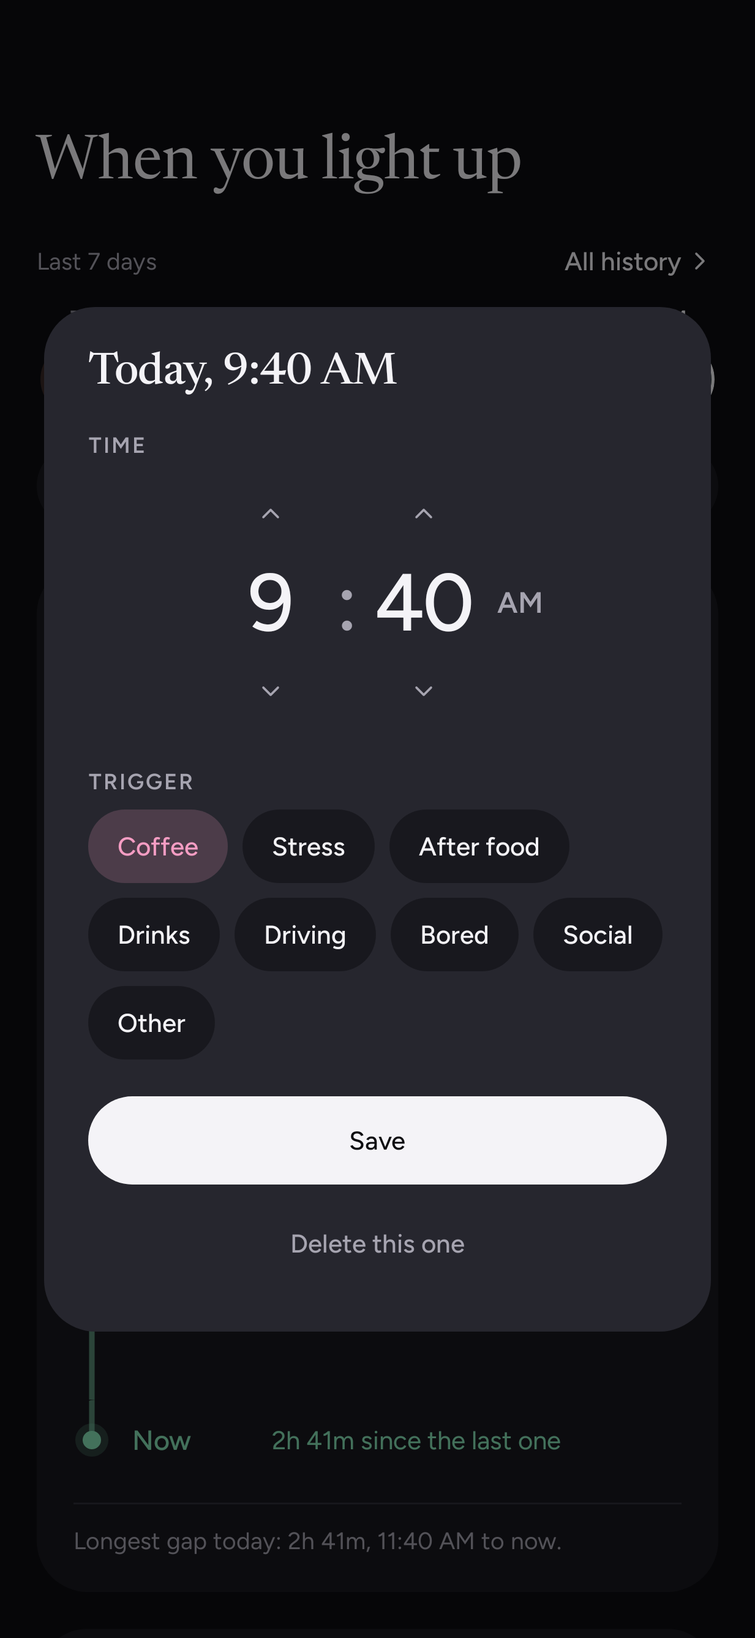
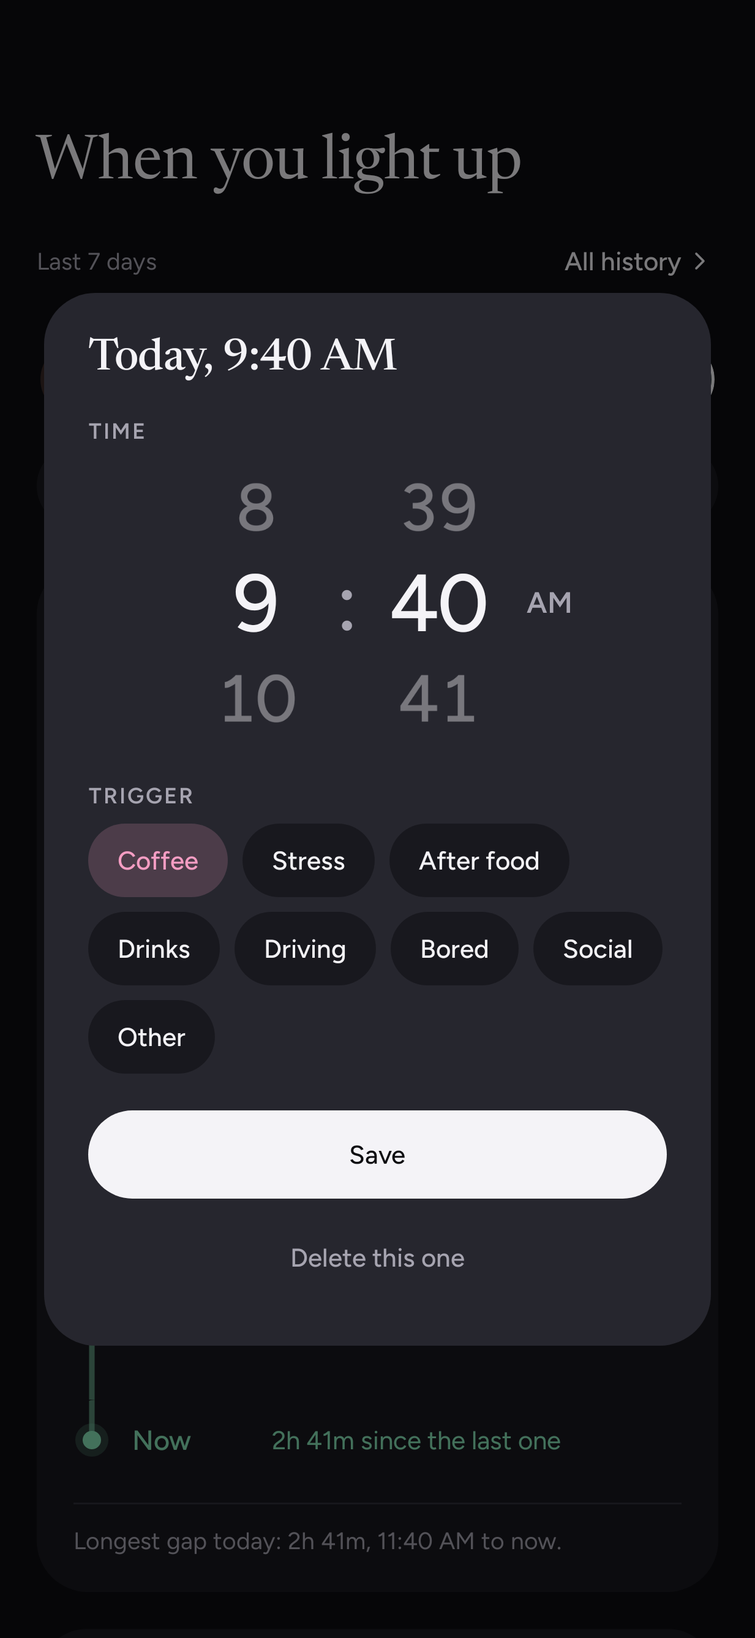
Log editor: time wheels instead of arrow buttons
The hour and minute are now spinner wheels, like iOS and Android pickers:
the value in the middle with its neighbours fading above (earlier) and below
(later). Drag up or tap the value below for later, drag down or tap above for
earlier; holding repeats. Times that can't be chosen are dimmed and the wheel
won't turn to them.

- TimeWheel replaces TimeStepper; the up/down icons are gone.
- RepeatTarget: CounterRow's hold-to-repeat as a plain tap target, shared by
  RepeatButton and the wheel.
- TimeWheelTest: tap below/above, drag up/down, never to a time past now.
- SPEC, design system and screenshots updated.

Claude-Session: https://claude.ai/code/session_018i9YmsjcAhE8FFAW5SDTiF

diff --git a/app/src/main/java/app/exhale/ui/components/DayTimeline.kt b/app/src/main/java/app/exhale/ui/components/DayTimeline.kt
@@ -1,6 +1,20 @@
 package app.exhale.ui.components
 
 import androidx.compose.foundation.Canvas
+import androidx.compose.animation.core.Animatable
+import androidx.compose.animation.core.tween
+import androidx.compose.foundation.gestures.detectVerticalDragGestures
+import androidx.compose.foundation.layout.offset
+import androidx.compose.runtime.rememberCoroutineScope
+import androidx.compose.runtime.rememberUpdatedState
+import androidx.compose.ui.draw.clipToBounds
+import androidx.compose.ui.graphics.graphicsLayer
+import androidx.compose.ui.input.pointer.pointerInput
+import androidx.compose.ui.platform.LocalDensity
+import androidx.compose.ui.unit.IntOffset
+import kotlinx.coroutines.launch
+import kotlin.math.abs
+import kotlin.math.roundToInt
 import androidx.compose.foundation.background
 import androidx.compose.foundation.clickable
 import androidx.compose.foundation.layout.Arrangement
@@ -345,40 +359,107 @@ fun DayLine(
     }
 }
 
+/** Height of one value on a [TimeWheel]; it shows three. */
+private val WHEEL_SLOT = ExSize.row
+
 /**
- * A time of day as hour and minutes, each with an up and a down button that repeat while held:
- * hours go round the clock, minutes round the hour. [canSet] says whether a time can be chosen
- * (a log can't move into the future); a step that would land on one it can't is off.
+ * A time of day as two wheels, hour and minutes, like the iOS and Android spinners: the value in
+ * the middle, its neighbours fading above (earlier) and below (later). Drag a wheel up for later,
+ * down for earlier; tap the value below or above to step to it, and hold to keep going. Hours go
+ * round the clock, minutes round the hour. [canSet] says whether a time can be chosen (a log can't
+ * move into the future): one that can't is dimmed, and the wheel won't turn to it.
  */
 @Composable
-fun TimeStepper(minuteOfDay: Int, onChange: (Int) -> Unit, canSet: (Int) -> Boolean, h24: Boolean, modifier: Modifier = Modifier) {
+fun TimeWheel(minuteOfDay: Int, onChange: (Int) -> Unit, canSet: (Int) -> Boolean, h24: Boolean, modifier: Modifier = Modifier) {
     val c = Ex.colors
     val hour = minuteOfDay / 60
-    val minute = minuteOfDay % 60
-    val hourText = if (h24) "%02d".format(hour) else "${if (hour % 12 == 0) 12 else hour % 12}"
+    val hourText = { m: Int -> (m / 60).let { h -> if (h24) "%02d".format(h) else "${if (h % 12 == 0) 12 else h % 12}" } }
     val half = LocalTime.of(hour, 0).format(DateTimeFormatter.ofPattern("a", Locale.getDefault()))
     Row(
-        modifier.fillMaxWidth().semantics { stateDescription = "$hourText:%02d".format(minute) + if (h24) "" else " $half" },
+        modifier.fillMaxWidth().semantics { stateDescription = hourText(minuteOfDay) + ":%02d".format(minuteOfDay % 60) + if (h24) "" else " $half" },
         horizontalArrangement = Arrangement.Center,
         verticalAlignment = Alignment.CenterVertically,
     ) {
-        TimePart(hourText, "hour", minuteOfDay, onChange, canSet, LogEdit::stepHour)
+        WheelColumn("hour", minuteOfDay, onChange, canSet, LogEdit::stepHour, hourText)
         Text(":", style = ExType.numberLarge, color = c.inkSoft, modifier = Modifier.padding(horizontal = ExSpace.xxs))
-        TimePart("%02d".format(minute), "minute", minuteOfDay, onChange, canSet, LogEdit::stepMinute)
+        WheelColumn("minute", minuteOfDay, onChange, canSet, LogEdit::stepMinute) { "%02d".format(it % 60) }
         if (!h24) Text(half, style = ExType.label, color = c.inkSoft, modifier = Modifier.padding(start = ExSpace.xs))
     }
 }
 
-/** One column of a [TimeStepper]: an up button, [text], a down button; [step] moves [minuteOfDay] by one [unit]. */
+/**
+ * One wheel of a [TimeWheel]: values [step]ped from [minuteOfDay] by -2..2 by one [unit], drawn
+ * [WHEEL_SLOT] apart and following the finger; past half a slot the wheel turns to the next value.
+ */
 @Composable
-private fun TimePart(text: String, unit: String, minuteOfDay: Int, onChange: (Int) -> Unit, canSet: (Int) -> Boolean, step: (Int, Int) -> Int) {
+private fun WheelColumn(
+    unit: String,
+    minuteOfDay: Int,
+    onChange: (Int) -> Unit,
+    canSet: (Int) -> Boolean,
+    step: (Int, Int) -> Int,
+    label: (Int) -> String,
+) {
     val c = Ex.colors
-    val up = step(minuteOfDay, 1)
-    val down = step(minuteOfDay, -1)
-    Column(horizontalAlignment = Alignment.CenterHorizontally) {
-        RepeatButton(ExIcons.Up, "One $unit later", canSet(up), { onChange(up) })
-        Text(text, style = ExType.numberLarge, color = c.ink, textAlign = TextAlign.Center, modifier = Modifier.widthIn(min = 64.dp))
-        RepeatButton(ExIcons.Down, "One $unit earlier", canSet(down), { onChange(down) })
+    val ink = c.ink
+    val slot = with(LocalDensity.current) { WHEEL_SLOT.toPx() }
+    // How far the values sit from rest, in px: negative while dragged up (towards later).
+    val offset = remember { Animatable(0f) }
+    val scope = rememberCoroutineScope()
+    val current by rememberUpdatedState(minuteOfDay)
+    val change by rememberUpdatedState(onChange)
+    val allowed by rememberUpdatedState(canSet)
+    val later = step(minuteOfDay, 1)
+    val earlier = step(minuteOfDay, -1)
+    Box(
+        Modifier
+            .width(80.dp)
+            .height(WHEEL_SLOT * 3)
+            .clipToBounds()
+            .pointerInput(step) {
+                val settle = { scope.launch { offset.animateTo(0f, tween(160)) } }
+                // The value the drag has turned to, so quick turns build on each other before the screen catches up.
+                var m = current
+                detectVerticalDragGestures(onDragStart = { m = current }, onDragEnd = { settle() }, onDragCancel = { settle() }) { pointer, dy ->
+                    pointer.consume()
+                    var o = offset.value + dy
+                    val was = m
+                    // Turn a value at a time while the drag has gone past half a slot; a value that
+                    // can't be chosen holds the wheel short of it.
+                    while (o <= -slot / 2 || o >= slot / 2) {
+                        val dir = if (o < 0) 1 else -1
+                        val next = step(m, dir)
+                        if (!allowed(next)) { o = o.coerceIn(-slot * 0.3f, slot * 0.3f); break }
+                        m = next
+                        o += dir * slot
+                    }
+                    if (m != was) change(m)
+                    scope.launch { offset.snapTo(o) }
+                }
+            },
+    ) {
+        for (k in -2..2) {
+            val value = step(minuteOfDay, k)
+            val dim = k != 0 && !canSet(value)
+            Box(
+                Modifier
+                    .fillMaxWidth()
+                    .height(WHEEL_SLOT)
+                    .offset { IntOffset(0, (slot * (k + 1) + offset.value).roundToInt()) }
+                    .graphicsLayer {
+                        val dist = (abs(slot * k + offset.value) / slot).coerceAtMost(2f)
+                        val s = 1f - 0.18f * dist
+                        scaleX = s
+                        scaleY = s
+                        alpha = (1f - 0.6f * dist).coerceAtLeast(0f) * if (dim) 0.35f else 1f
+                    },
+                contentAlignment = Alignment.Center,
+            ) {
+                Text(label(value), style = ExType.numberLarge, color = ink, textAlign = TextAlign.Center)
+            }
+        }
+        RepeatTarget(canSet(earlier), "One $unit earlier", { onChange(earlier) }, Modifier.align(Alignment.TopCenter).fillMaxWidth().height(WHEEL_SLOT))
+        RepeatTarget(canSet(later), "One $unit later", { onChange(later) }, Modifier.align(Alignment.BottomCenter).fillMaxWidth().height(WHEEL_SLOT))
     }
 }
 
@@ -417,7 +498,7 @@ fun LogEditor(
         modifier, color = c.surfaceHigh,
     ) {
         Overline("Time", Modifier.padding(top = ExSpace.sm))
-        TimeStepper(minute, { minute = it }, canSet = { LogEdit.moved(log.at, it, zone, now) != null }, h24 = h24)
+        TimeWheel(minute, { minute = it }, canSet = { LogEdit.moved(log.at, it, zone, now) != null }, h24 = h24)
         Overline("Trigger", Modifier.padding(top = ExSpace.sm))
         TriggerChips(
             chips, selected = trigger,

diff --git a/app/src/main/java/app/exhale/ui/components/Inputs.kt b/app/src/main/java/app/exhale/ui/components/Inputs.kt
@@ -2,6 +2,7 @@ package app.exhale.ui.components
 
 import androidx.compose.animation.core.animateDpAsState
 import androidx.compose.animation.core.spring
+import androidx.compose.foundation.Indication
 import androidx.compose.foundation.background
 import androidx.compose.foundation.border
 import androidx.compose.foundation.clickable
@@ -10,6 +11,7 @@ import androidx.compose.foundation.interaction.collectIsFocusedAsState
 import androidx.compose.foundation.interaction.collectIsPressedAsState
 import androidx.compose.foundation.layout.Arrangement
 import androidx.compose.foundation.layout.Box
+import androidx.compose.foundation.layout.BoxScope
 import androidx.compose.foundation.layout.BoxWithConstraints
 import androidx.compose.foundation.layout.Column
 import androidx.compose.foundation.layout.Row
@@ -329,12 +331,33 @@ private fun CounterButton(icon: ImageVector, description: String, step: Int, val
     RepeatButton(icon, description, enabled = value + step in range, onStep = { onChange(value + step) })
 
 /**
- * A small round step button (44dp touch, 16dp icon) that repeats while held: one step on tap, then
- * every 70ms after 420ms of holding, while [enabled]. Used by [CounterRow] and [TimeStepper].
+ * A small round step button (44dp touch, 16dp icon) that repeats while held; see [RepeatTarget].
+ * Used by [CounterRow].
  */
 @Composable
 internal fun RepeatButton(icon: ImageVector, description: String, enabled: Boolean, onStep: () -> Unit, modifier: Modifier = Modifier) {
     val c = Ex.colors
+    RepeatTarget(
+        enabled, description, onStep, modifier.size(ExSize.touch),
+        indication = ripple(bounded = false, radius = 18.dp),
+    ) {
+        Icon(icon, null, Modifier.size(ExSize.iconSmall), tint = if (enabled) c.inkSoft else c.inkFaint.copy(alpha = 0.5f))
+    }
+}
+
+/**
+ * A tap target that steps once on tap, then every 70ms after 420ms of holding, while [enabled].
+ * Behind [RepeatButton] and the neighbour values of [TimeWheel].
+ */
+@Composable
+internal fun RepeatTarget(
+    enabled: Boolean,
+    description: String,
+    onStep: () -> Unit,
+    modifier: Modifier = Modifier,
+    indication: Indication? = null,
+    content: @Composable BoxScope.() -> Unit = {},
+) {
     val source = remember { MutableInteractionSource() }
     val pressed by source.collectIsPressedAsState()
     val canStep by rememberUpdatedState(enabled)
@@ -353,15 +376,13 @@ internal fun RepeatButton(icon: ImageVector, description: String, enabled: Boole
     }
     Box(
         modifier
-            .size(ExSize.touch)
-            .clickable(source, ripple(bounded = false, radius = 18.dp), enabled = enabled, role = Role.Button) {
+            .clickable(source, indication, enabled = enabled, role = Role.Button) {
                 if (repeated) repeated = false else onStep()
             }
             .semantics { contentDescription = description },
         contentAlignment = Alignment.Center,
-    ) {
-        Icon(icon, null, Modifier.size(ExSize.iconSmall), tint = if (enabled) c.inkSoft else c.inkFaint.copy(alpha = 0.5f))
-    }
+        content = content,
+    )
 }
 
 /**

diff --git a/app/src/test/java/app/exhale/ui/TimeWheelTest.kt b/app/src/test/java/app/exhale/ui/TimeWheelTest.kt
@@ -1,0 +1,68 @@
+package app.exhale.ui
+
+import androidx.compose.runtime.getValue
+import androidx.compose.runtime.mutableIntStateOf
+import androidx.compose.runtime.setValue
+import androidx.compose.ui.geometry.Offset
+import androidx.compose.ui.test.junit4.createComposeRule
+import androidx.compose.ui.test.onAllNodesWithContentDescription
+import androidx.compose.ui.test.onNodeWithContentDescription
+import androidx.compose.ui.test.performClick
+import androidx.compose.ui.test.performTouchInput
+import androidx.compose.ui.test.swipe
+import androidx.compose.ui.unit.dp
+import app.exhale.ui.components.TimeWheel
+import app.exhale.ui.theme.ExhaleTheme
+import org.junit.Assert.assertEquals
+import org.junit.Rule
+import org.junit.Test
+import org.junit.runner.RunWith
+import org.robolectric.RobolectricTestRunner
+import org.robolectric.annotation.Config
+
+/** The wheel turns like a spinner: the value below (or a drag up) is later, the one above earlier. */
+@RunWith(RobolectricTestRunner::class)
+@Config(sdk = [34])
+class TimeWheelTest {
+    @get:Rule val compose = createComposeRule()
+
+    private var minute by mutableIntStateOf(13 * 60 + 5)
+
+    private fun wheel(latest: Int = 24 * 60) = compose.setContent {
+        ExhaleTheme(dark = true) { TimeWheel(minute, { minute = it }, canSet = { it <= latest }, h24 = true) }
+    }
+
+    @Test fun tappingBelow_isLater_andAbove_isEarlier() {
+        wheel()
+        compose.onNodeWithContentDescription("One minute later").performClick()
+        compose.onNodeWithContentDescription("One hour later").performClick()
+        assertEquals(14 * 60 + 6, minute)
+        compose.onNodeWithContentDescription("One minute earlier").performClick()
+        compose.onNodeWithContentDescription("One minute earlier").performClick()
+        assertEquals(14 * 60 + 4, minute)
+    }
+
+    @Test fun draggingUp_turnsToLater_andDown_toEarlier() {
+        wheel()
+        // The minute wheel is the second; drag it up about two slots (52dp each).
+        val minutes = compose.onAllNodesWithContentDescription("One minute later")[0]
+        minutes.performTouchInput { swipe(Offset(centerX, centerY), Offset(centerX, centerY - 104.dp.toPx()), 400) }
+        compose.waitForIdle()
+        assertEquals(13 * 60 + 7, minute)
+        minutes.performTouchInput { swipe(Offset(centerX, centerY), Offset(centerX, centerY + 52.dp.toPx()), 300) }
+        compose.waitForIdle()
+        assertEquals(13 * 60 + 6, minute)
+    }
+
+    @Test fun aTimeThatCantBeChosen_isNeitherTappedNorDraggedTo() {
+        minute = 13 * 60 + 5
+        wheel(latest = 13 * 60 + 6)
+        compose.onNodeWithContentDescription("One minute later").performClick()
+        compose.onNodeWithContentDescription("One minute later").performClick()
+        assertEquals(13 * 60 + 6, minute)
+        compose.onAllNodesWithContentDescription("One minute later")[0]
+            .performTouchInput { swipe(Offset(centerX, centerY), Offset(centerX, centerY - 156.dp.toPx()), 400) }
+        compose.waitForIdle()
+        assertEquals(13 * 60 + 6, minute)
+    }
+}

diff --git a/app/src/main/java/app/exhale/ui/screens/UiKitScreen.kt b/app/src/main/java/app/exhale/ui/screens/UiKitScreen.kt
@@ -62,7 +62,7 @@ import app.exhale.ui.components.ListRow
 import app.exhale.ui.components.DayLine
 import app.exhale.ui.components.DayTimeline
 import app.exhale.ui.components.LogEditor
-import app.exhale.ui.components.TimeStepper
+import app.exhale.ui.components.TimeWheel
 import app.exhale.domain.DayTimes
 import app.exhale.domain.SmokeLog
 import app.exhale.domain.Urge
@@ -294,7 +294,7 @@ fun UiKitScreen(
             DayLine(sample, now, zone, h24 = true, onClick = {})
             Footnote("Day line: the today row on Ember.")
             var minuteOfDay by remember { mutableIntStateOf(13 * 60 + 5) }
-            TimeStepper(minuteOfDay, { minuteOfDay = it }, canSet = { true }, h24 = true)
+            TimeWheel(minuteOfDay, { minuteOfDay = it }, canSet = { true }, h24 = true)
             LogEditor(sample.cigarettes[1].log, "Today", zone, now, h24 = true, triggers = Trigger.BUILT_IN, onSave = { _, _ -> }, onDelete = {})
             Footnote("Log editor: the dialog behind a tap on the day timeline.")
 
@@ -302,7 +302,7 @@ fun UiKitScreen(
             FlowRow(horizontalArrangement = Arrangement.spacedBy(ExSpace.md), verticalArrangement = Arrangement.spacedBy(ExSpace.md)) {
                 listOf(
                     ExIcons.Ember, ExIcons.Regulate, ExIcons.Rhythm, ExIcons.Air, ExIcons.Money, ExIcons.Wave, ExIcons.Plus, ExIcons.Minus,
-                    ExIcons.Check, ExIcons.Close, ExIcons.Back, ExIcons.Forward, ExIcons.Up, ExIcons.Down, ExIcons.Settings, ExIcons.Undo, ExIcons.Sun,
+                    ExIcons.Check, ExIcons.Close, ExIcons.Back, ExIcons.Forward, ExIcons.Settings, ExIcons.Undo, ExIcons.Sun,
                     ExIcons.Moon, ExIcons.Palette,
                 ).forEach { Icon(it, null, Modifier.size(28.dp), tint = c.ink) }
             }

diff --git a/app/src/main/java/app/exhale/ui/components/ExIcons.kt b/app/src/main/java/app/exhale/ui/components/ExIcons.kt
@@ -46,8 +46,6 @@ object ExIcons {
     val Close = icon("close", "M6 6l12 12", "M18 6L6 18")
     val Back = icon("back", "M19 12H5", "M11 6l-6 6 6 6")
     val Forward = icon("forward", "M9 6l6 6-6 6")
-    val Up = icon("up", "M6 15l6-6 6 6")
-    val Down = icon("down", "M6 9l6 6 6-6")
     val Settings = icon("settings", "M4 7h9", "M17 7h3", "M4 17h3", "M11 17h9", "M15 5v4", "M9 15v4")
     val Undo = icon("undo", "M9 14L4 9l5-5", "M4 9h10a6 6 0 0 1 0 12h-3")
     val Wave = icon("wave", "M2 14c2.5 0 3-6 5.5-6S10 16 12.5 16 15 8 17.5 8 20 14 22 14")

diff --git a/docs/DESIGN-SYSTEM.md b/docs/DESIGN-SYSTEM.md
@@ -69,7 +69,7 @@ Plain, short, second person. A cigarette is information: "Logged. 8 of 12 today.
 
 ## Components
 
-Button, IconButton, Link, Chip, Badge, Card, OptionCard, TextField, FieldNote, Footnote, Stepper, CounterRow, TimeStepper, SegmentedControl, ActiveFilter, StepProgress, GradientRing, WeekStrip, MonthCalendar, LegendItem, DayTimeline, DayLine, ListRow, HandleRow, ReorderColumn, TriggerChips, Dialog, ChoiceDialog, LogEditor, Toast, FloatingTabBar and AppBar. Each card below has guidelines and a live web rendition styled by `components/bundle.css`. In the app they are Compose functions in `ui/components/` (`ExButton`, `ExIconButton`, `ExLink`, `ExChip`, `ExBadge`, `ExCard`, `OptionCard`, `ExTextField`, `FieldNote`, `Footnote`, `Stepper`, `CounterRow`, `TimeStepper`, `SegmentedControl`, `ActiveFilter`, `StepProgress`, `GradientRing`, `WeekStrip`, `MonthCalendar`, `LegendItem`, `DayTimeline`, `DayLine`, `ListRow`, `HandleRow`, `ReorderColumn`, `TriggerChips`, `ExDialog`, `ExChoiceDialog`, `LogEditor`/`LogEditDialog`, `ExToast`, `FloatingTabBar`, `ExAppBar`). Every screen sits in `ExScreen`, which applies `bg`, the status-bar inset, the gutter and the tab-bar clearance. The app also has a live catalogue in debug builds: Settings → Prototype tools → Design system.
+Button, IconButton, Link, Chip, Badge, Card, OptionCard, TextField, FieldNote, Footnote, Stepper, CounterRow, TimeWheel, SegmentedControl, ActiveFilter, StepProgress, GradientRing, WeekStrip, MonthCalendar, LegendItem, DayTimeline, DayLine, ListRow, HandleRow, ReorderColumn, TriggerChips, Dialog, ChoiceDialog, LogEditor, Toast, FloatingTabBar and AppBar. Each card below has guidelines and a live web rendition styled by `components/bundle.css`. In the app they are Compose functions in `ui/components/` (`ExButton`, `ExIconButton`, `ExLink`, `ExChip`, `ExBadge`, `ExCard`, `OptionCard`, `ExTextField`, `FieldNote`, `Footnote`, `Stepper`, `CounterRow`, `TimeWheel`, `SegmentedControl`, `ActiveFilter`, `StepProgress`, `GradientRing`, `WeekStrip`, `MonthCalendar`, `LegendItem`, `DayTimeline`, `DayLine`, `ListRow`, `HandleRow`, `ReorderColumn`, `TriggerChips`, `ExDialog`, `ExChoiceDialog`, `LogEditor`/`LogEditDialog`, `ExToast`, `FloatingTabBar`, `ExAppBar`). Every screen sits in `ExScreen`, which applies `bg`, the status-bar inset, the gutter and the tab-bar clearance. The app also has a live catalogue in debug builds: Settings → Prototype tools → Design system.
 
 ## Colour tokens
 
@@ -216,13 +216,13 @@ A count inside a list card, lighter than the Stepper: for settings changed a ste
 
 - Compose: `CounterRow("Starting allowance", value, onChange, 0..100, caption = "a day, since 4 October", changed = value != saved)`.
 
-### TimeStepper
+### TimeWheel
 
-A time of day as hour : minutes, each with an up and a down chevron button, for moving a logged cigarette.
+A time of day as two wheels, hour and minutes, for moving a logged cigarette. It behaves like the iOS and Android spinners people already know.
 
-`number-large` digits (64px minimum each), a `number-large` colon in `ink-soft`, and in 12-hour mode the AM/PM in `label`/`ink-soft` after the minutes. The buttons are the CounterRow's: 44px touch, 16px chevron in `ink-soft`, holding repeats (after 420ms, every 70ms). Hours go round the clock and minutes round the hour; a step that would land on a time that can't be chosen (later than now) disables.
+Each wheel shows three values on a 52px pitch: the chosen one in the middle (`number-large`, `ink`), its neighbours above (earlier) and below (later), smaller and fading; values that can't be chosen (later than now) are dimmer still. Drag a wheel up for later, down for earlier; it follows the finger, turns a value every half slot and settles back in 160ms. Tapping the value below steps later, above earlier; holding repeats (after 420ms, every 70ms). Hours go round the clock, minutes round the hour. A `number-large` colon in `ink-soft` sits between the wheels, and in 12-hour mode the AM/PM in `label`/`ink-soft` after them. Screen readers get "One minute later" / "earlier" buttons and the time in the phone's 12/24-hour form.
 
-- Compose: `TimeStepper(minuteOfDay, onChange, canSet = { LogEdit.moved(at, it, zone, now) != null }, h24)`.
+- Compose: `TimeWheel(minuteOfDay, onChange, canSet = { LogEdit.moved(at, it, zone, now) != null }, h24)`.
 
 ### SegmentedControl
 
@@ -275,7 +275,7 @@ A centred card (`space-xl` padding) over the scrim: a `headline` title as a ques
 
 The modal behind a tap on a DayTimeline cigarette: change its time or trigger, or delete it.
 
-A `surface-high` card (so the `surface` trigger chips stand out, as on the Logged card) with `space-xl` padding: a `headline` title ("Sunday, 1:05 PM"), a "Time" overline and a TimeStepper, a "Trigger" overline and TriggerChips (tap the picked one again to clear it; "Your own" adds one), then a Primary "Save" and a Ghost "Delete this one". Delete asks first with a ChoiceDialog ("Delete the one at 1:05 PM?", Primary "Delete", Ghost "Keep it"). Tapping outside or Back closes without saving. Scrolls on a short screen.
+A `surface-high` card (so the `surface` trigger chips stand out, as on the Logged card) with `space-xl` padding: a `headline` title ("Sunday, 1:05 PM"), a "Time" overline and a TimeWheel, a "Trigger" overline and TriggerChips (tap the picked one again to clear it; "Your own" adds one), then a Primary "Save" and a Ghost "Delete this one". Delete asks first with a ChoiceDialog ("Delete the one at 1:05 PM?", Primary "Delete", Ghost "Keep it"). Tapping outside or Back closes without saving. Scrolls on a short screen.
 
 - Compose: `LogEditDialog(log, dayName, zone, now, h24, triggers, onSave = { at, trigger -> … }, onDelete = { … }, onDismiss = { … }, onAddTrigger = vm::addTrigger)`; `LogEditor(...)` is the same card without the dialog window (catalogue, screenshots), built on `ExDialogCard`, the card every kit dialog uses.
 
@@ -361,4 +361,4 @@ Drawn over the screens (not inside them), so it stays put while pages slide. Lea
 
 - The web previews are static HTML/CSS renditions written by hand from the Compose components; they are not generated from the Kotlin code.
 - Animated and chart components (the Ember orb, the Urge Wave, the particle field, the Smoke Clock, Air's recovery sky, gap chart and timeline) are screen-specific and are not in this kit.
-- Link, ActiveFilter, MonthCalendar, LegendItem, DayTimeline, DayLine, TimeStepper, LogEditor, Dialog, ChoiceDialog, Toast, CounterRow, FieldNote, Footnote, AppBar, the Tonal button, the outlined card, the two-line ListRow and the capped and suffixed text fields are in the in-app catalogue but have no web preview yet.
+- Link, ActiveFilter, MonthCalendar, LegendItem, DayTimeline, DayLine, TimeWheel, LogEditor, Dialog, ChoiceDialog, Toast, CounterRow, FieldNote, Footnote, AppBar, the Tonal button, the outlined card, the two-line ListRow and the capped and suffixed text fields are in the in-app catalogue but have no web preview yet.

diff --git a/docs/SPEC.md b/docs/SPEC.md
@@ -217,8 +217,9 @@ Shows the last 30 days (today and the 29 before), or one picked day. Order:
   night before the first one doesn't count). An empty day says "Nothing logged that day." /
   "Nothing logged today." Switching between the clock and the list, or between days, cross-fades.
 - **Editing a cigarette**: tapping one opens a modal (`LogEditDialog`): "Sunday, 1:05 PM", a Time
-  stepper (hour and minutes, up/down, hold to repeat; hours round the clock, minutes round the hour;
-  12-hour phones get AM/PM), the trigger chips (the picked one again clears it; "Your own" adds one,
+  wheel (hour and minutes as spinner wheels: drag up or tap the value below for later, drag down or
+  tap the value above for earlier, hold to repeat; hours round the clock, minutes round the hour;
+  times that can't be chosen are dimmed; 12-hour phones get AM/PM), the trigger chips (the picked one again clears it; "Your own" adds one,
   as on the Logged card; a hidden trigger the log has keeps its chip here), Save (Primary) and
   "Delete this one" (Ghost). Rules in §4 LogEdit: the time stays on the log's day and never goes past
   now. Save writes only what changed (a save that changes nothing writes nothing) and closes; outside or Back closes without saving. Delete asks
